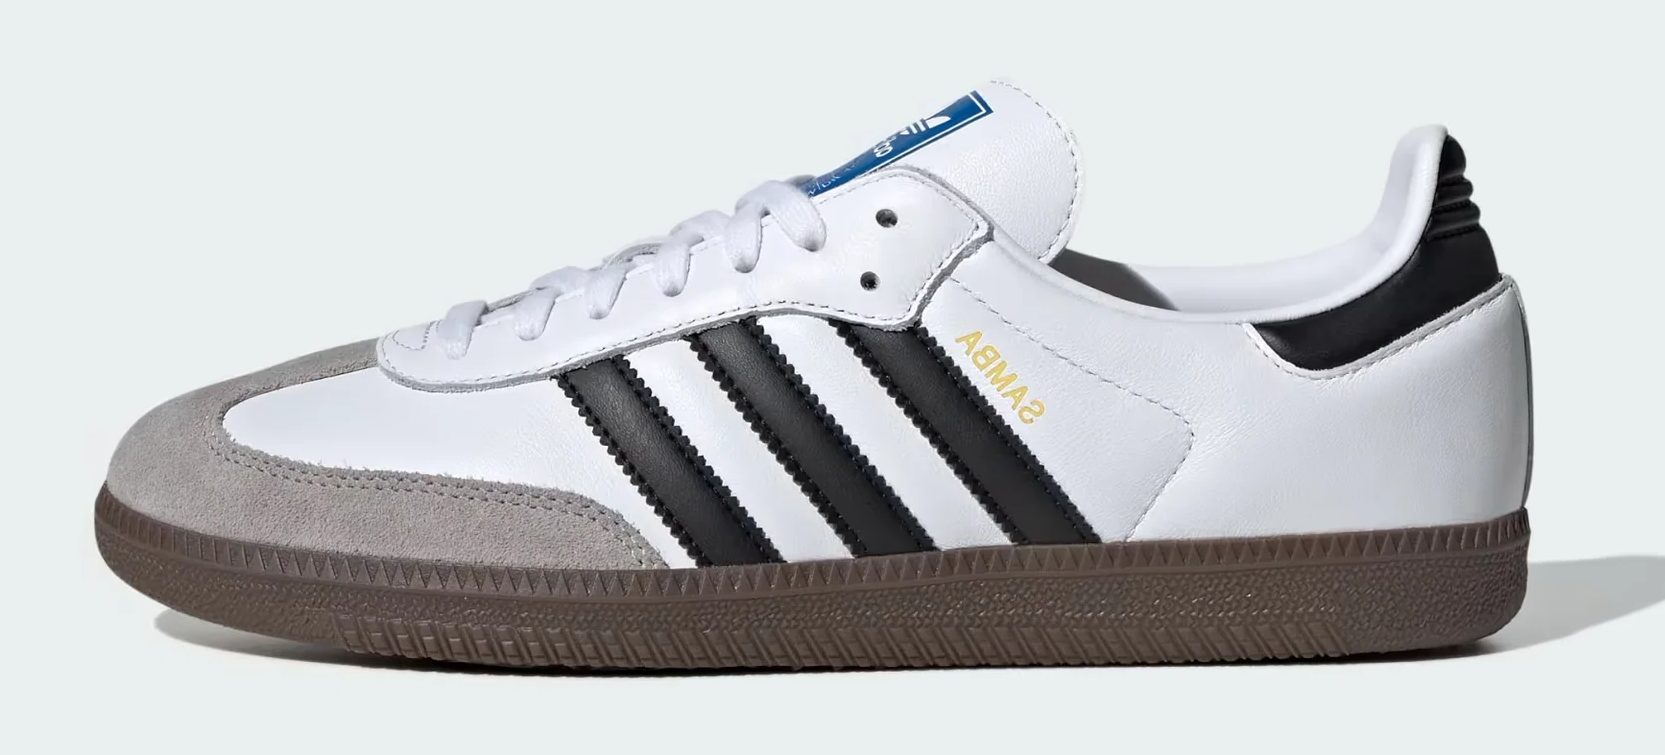
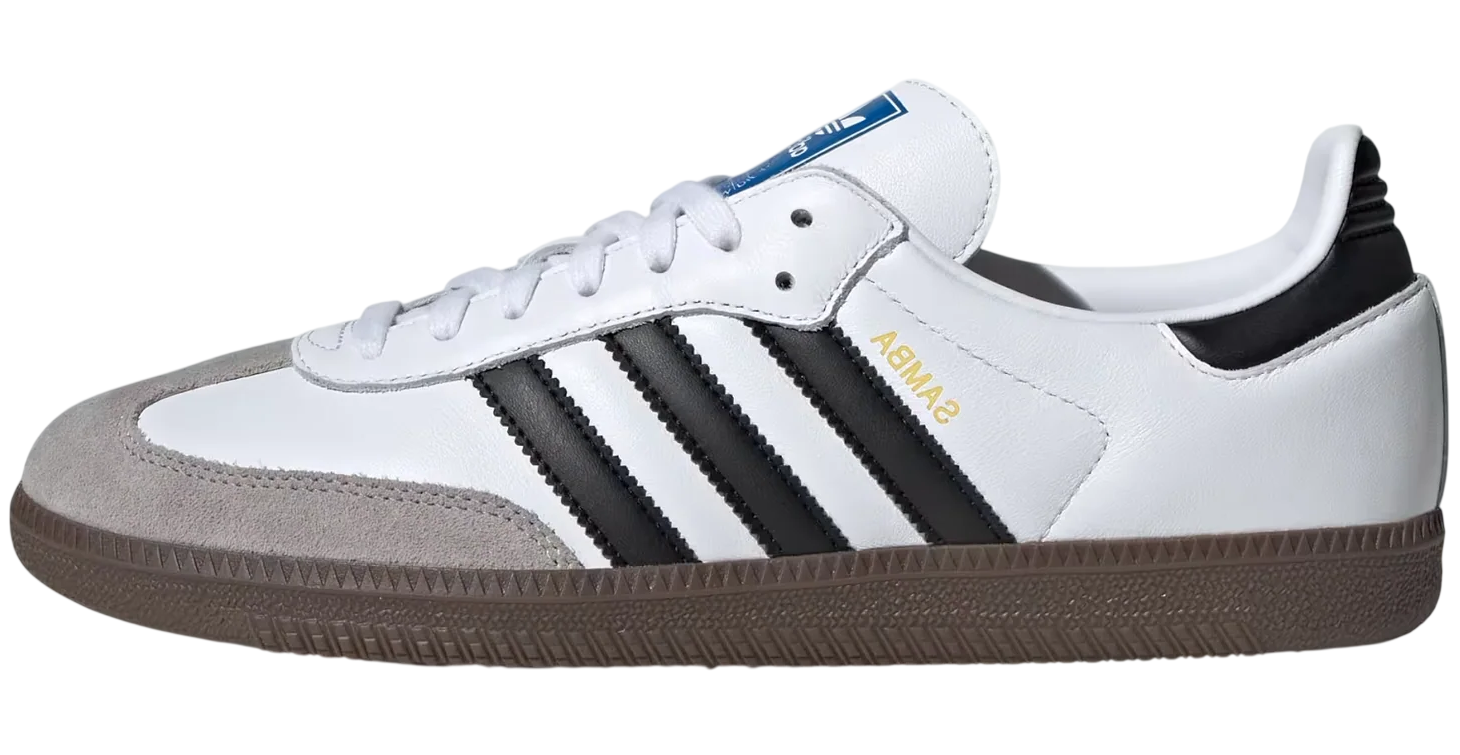
Fix: Replace 1adidas.png with proper adidas.png and add Group 121.png asset; increment cache version to v4 for product images

diff --git a/src/data/brands.ts b/src/data/brands.ts
@@ -5,7 +5,7 @@ export const brandsData: Brand[] = [
     id: "adidas",
     name: "Adidas",
     logo: "/assets/logos/adidas-logo.png?v=3",
-    productImage: "/assets/products/1adidas.png?v=2",
+    productImage: "/assets/products/adidas.png?v=4",
     available: true,
     status: "AVAILABLE NOW",
     href: "/brands/adidas"
